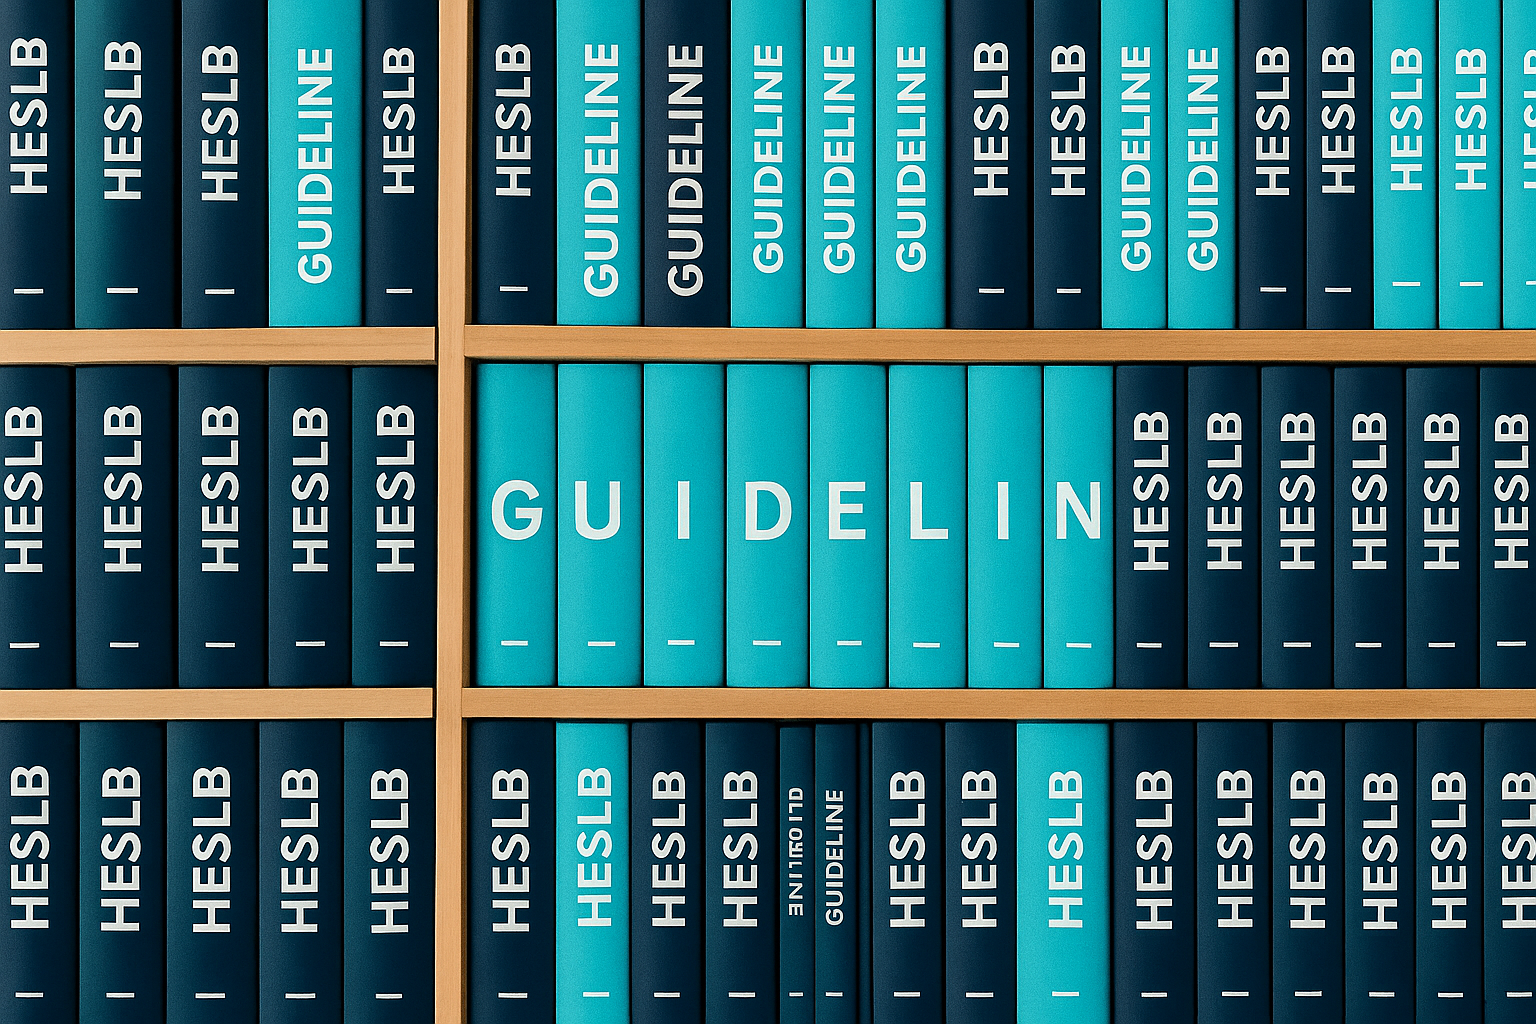
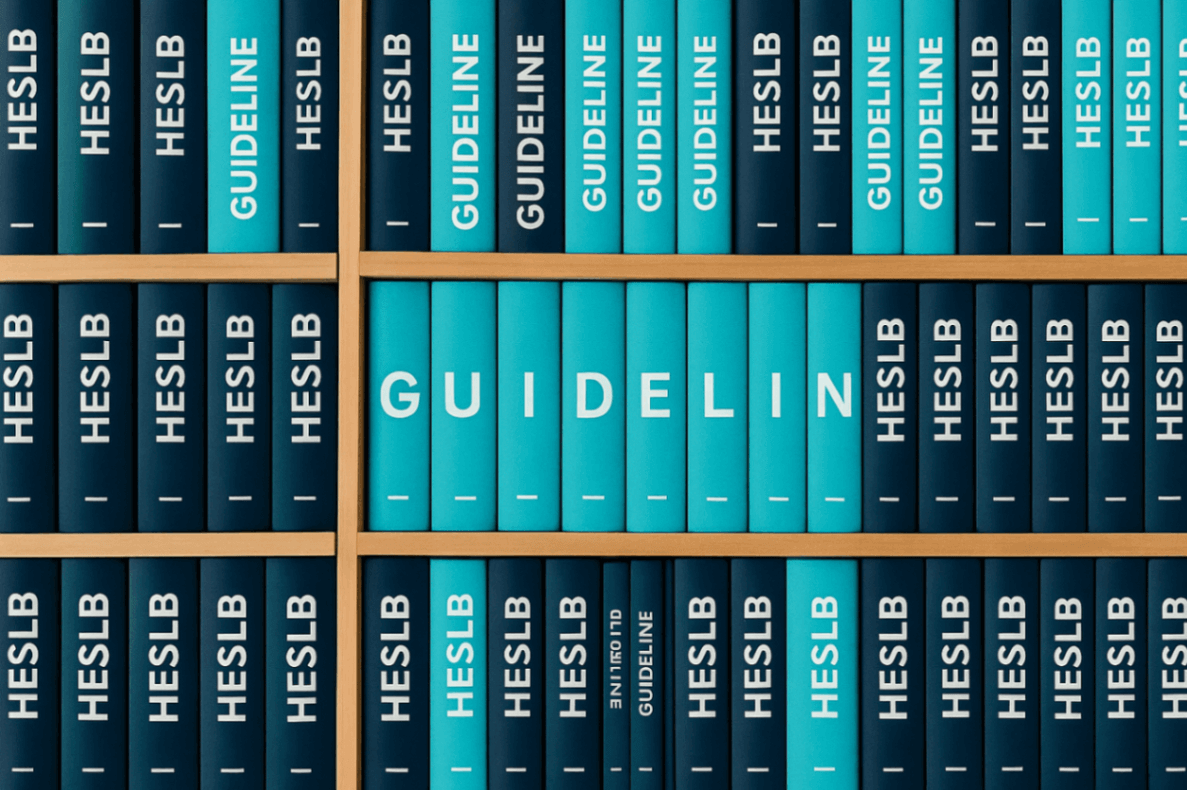
Update project

diff --git a/public/css/homefont.css b/public/css/homefont.css
@@ -1,0 +1,15 @@
+body{font-family:Tahoma,Geneva,-serif !important;background: none !important;background-color: white !important;}
+/* Apply font family to text elements only, NOT to icons */
+h1, h2, h3, h4, h5, h6, p, span, div, a, button, input, textarea, select, label {font-family: Tahoma, Geneva, sans-serif !important;}
+
+/* IMPORTANT: Preserve icon font families */
+.fas, .far, .fab, .fa, i[class*="fa-"] {font-family: "Font Awesome 6 Free", "Font Awesome 6 Pro", "Font Awesome 5 Free", "Font Awesome 5 Pro", "FontAwesome" !important;}
+
+.bi, i[class*="bi-"] {font-family: "Bootstrap Icons" !important;}
+
+/* Ensure category icons are visible */
+.category-icon i,.category-icon .fas,.category-icon .far,.category-icon .fab {font-family: "Font Awesome 6 Free", "Font Awesome 6 Pro", "Font Awesome 5 Free", "Font Awesome 5 Pro", "FontAwesome" !important;display: inline-block !important;visibility: visible !important;}
+
+/* Debug: Make sure icons are visible */
+.category-icon {position: relative;}
+.category-icon i {position: relative;z-index: 10;}

diff --git a/resources/views/newspage/newsdetails.blade.php b/resources/views/newspage/newsdetails.blade.php
@@ -434,8 +434,8 @@
                          onerror="this.onerror=null; this.src='{{ asset('images/static_files/noimagenews.png') }}';">
                 @else
                     <div class="no-image-placeholder">
-                        <img src="{{ asset('images/static_files/noimagenews.png') }}" 
-                             alt="{{ $news->title }}" 
+                    <img src="{{ asset('images/static_files/noimagenews.png') }}" 
+                         alt="{{ $news->title }}" 
                              class="featured-image" 
                              loading="lazy">
                     </div>
